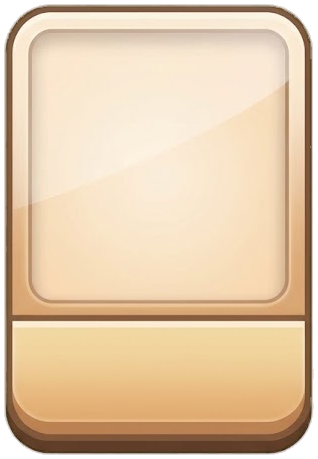
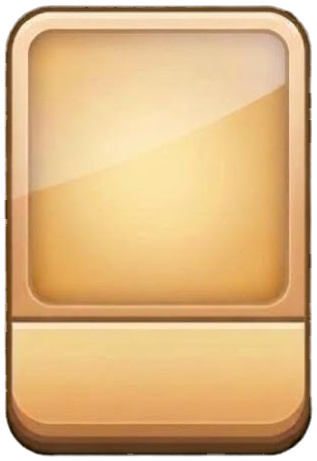
Replace card backgrounds with the new basic and jackpot designs
- New source image: left card (heavenly light in the window) is the
  jackpot card, right card (golden window) is the basic card
- Both are now cut straight from the source; the code-generated light
  rays on the old jackpot card are gone
- Clean the green tint off the soft outer rim of the cards and put both
  on the same canvas size

Claude-Session: https://claude.ai/code/session_01EhkagQdMKRPvrdP32sj85t

diff --git a/scripts/extract_cards.py b/scripts/extract_cards.py
@@ -1,14 +1,11 @@
-"""Build the pick-a-card backgrounds as transparent PNGs.
+"""Cut the pick-a-card backgrounds out of their green-screen sheet as transparent PNGs.
 
 Source (in cards/source/):
-  - cards_greenscreen.jpg : two cards on a green screen. Only the LEFT one (basic) is used.
+  - cards_greenscreen.jpg : two cards on a green screen
+      left  = jackpot (rare) card, with heavenly light inside its window
+      right = basic (regular) card
 
-Output:
-  - cards/basic.png   : the basic card, cut out of the green screen
-  - cards/jackpot.png : the same card with a warm glow and light rays drawn inside its window
-
-The jackpot card is made from the basic one so both frames are pixel-identical and the
-light can never leak past the card edge.
+Output: cards/jackpot.png and cards/basic.png (RGBA, same canvas size)
 
 Requires: numpy, Pillow
 Run from the repo root:  python3 scripts/extract_cards.py
@@ -17,100 +14,64 @@ Run from the repo root:  python3 scripts/extract_cards.py
 from pathlib import Path
 
 import numpy as np
-from PIL import Image, ImageFilter
+from PIL import Image
 
-from extract_brawlers import crop_to_alpha, dilate, flood, key_green, label
+from extract_brawlers import crop_to_alpha, dilate, key_green, label
 
 ROOT = Path(__file__).resolve().parent.parent
 SRC = ROOT / "cards" / "source" / "cards_greenscreen.jpg"
 OUT = ROOT / "cards"
 
-RAYS = 12                                   # number of light rays
-RAY_LIGHT = np.array([255, 250, 226.0])     # colour of the rays
-GLOW_LIGHT = np.array([255, 254, 244.0])    # colour of the centre glow
-GOLD_TINT = np.array([1.00, 0.93, 0.76])    # warms the window between the rays
+# Names for the cards on the sheet, left to right.
+SHEET_NAMES = ["jackpot", "basic"]
 
 
-def smoothstep(lo: float, hi: float, x: np.ndarray) -> np.ndarray:
-    t = np.clip((x - lo) / (hi - lo), 0.0, 1.0)
-    return t * t * (3 - 2 * t)
+def clean_rim(rgba: np.ndarray, width: int = 8) -> np.ndarray:
+    """Remove the green tint the screen leaves on the soft outer rim of the cards.
+
+    Every colour on the card rim (brown outline, cream frame) has green no higher than
+    the average of red and blue, so anything greener than that near the edge is spill.
+    The faint outermost halo is also trimmed so the outline ends crisply.
+    """
+    out = rgba.astype(np.float32)
+    rim = dilate(rgba[..., 3] == 0, width) & (rgba[..., 3] > 0)
+    r, g, b, a = out[..., 0], out[..., 1], out[..., 2], out[..., 3]
+    g[rim] = np.minimum(g[rim], (r[rim] + b[rim]) / 2)
+    a[rim] = np.clip((a[rim] / 255.0 - 0.25) / 0.5, 0.0, 1.0) * 255.0
+    return np.clip(out + 0.5, 0, 255).astype(np.uint8)
 
 
-def cut_basic_card() -> Image.Image:
-    """Key the sheet and return the left-most card."""
-    rgba = key_green(SRC)
+def cut_cards() -> dict[str, Image.Image]:
+    rgba = clean_rim(key_green(SRC))
     labels, n = label(rgba[..., 3] >= 128)
-    cards = []
+    found = []
     for i in range(1, n + 1):
         ys, xs = np.nonzero(labels == i)
-        if len(xs) > 20000:
-            cards.append((xs.min(), i))
-    if not cards:
-        raise SystemExit("no card found on the sheet")
-    _, left = min(cards)
-    return crop_to_alpha(rgba, dilate(labels == left, 2))
+        if len(xs) > 20000:  # ignore specks
+            found.append((xs.min(), i))
+    if len(found) != len(SHEET_NAMES):
+        raise SystemExit(f"expected {len(SHEET_NAMES)} cards on the sheet, found {len(found)}")
+    found.sort()
+    return {name: crop_to_alpha(rgba, dilate(labels == i, 2)) for name, (_, i) in zip(SHEET_NAMES, found)}
 
 
-def window_mask(card: np.ndarray) -> np.ndarray:
-    """Soft mask (0..1) of the sunken window in the top part of the card.
-
-    The window is enclosed by a thin line that is darker than whatever surrounds it
-    (even where the glossy shine crosses it), so treat "darker than the local average"
-    as a wall and flood-fill from the middle of the top area.
-    """
-    h, w = card.shape[:2]
-    lum = card[..., :3].astype(np.float32).sum(axis=2) / 3
-    local = np.asarray(Image.fromarray(lum.astype(np.uint8)).filter(ImageFilter.GaussianBlur(6)))
-    wall = (lum < local.astype(np.float32) * 0.93) | (card[..., 3] < 255)
-    seed = np.zeros((h, w), dtype=bool)
-    seed[int(h * 0.38), w // 2] = True
-    inside = flood(~dilate(wall, 1), seed)
-    if not 0.30 < inside.mean() < 0.50:
-        raise SystemExit(f"window detection failed (covers {inside.mean():.0%} of the card)")
-    # Undo the 1px the thickened wall took, then soften the edge.
-    inside = dilate(inside, 1)
-    soft = Image.fromarray((inside * 255).astype(np.uint8)).filter(ImageFilter.GaussianBlur(0.8))
-    return np.asarray(soft).astype(np.float32) / 255.0
-
-
-def add_light(card: np.ndarray) -> np.ndarray:
-    """Draw a warm glow with light rays inside the card window."""
-    mask = window_mask(card)
-    ys, xs = np.nonzero(mask > 0.5)
-    cy, cx = (ys.min() + ys.max()) / 2, (xs.min() + xs.max()) / 2
-    radius = max(ys.max() - ys.min(), xs.max() - xs.min()) / 2
-
-    yy, xx = np.mgrid[: card.shape[0], : card.shape[1]].astype(np.float32)
-    r = np.hypot(xx - cx, yy - cy) / radius          # 0 at the centre, ~1 at the window edge
-    theta = np.arctan2(yy - cy, xx - cx)
-
-    # Soft rays: a smooth wave around the centre, slightly rotated so no ray is perfectly
-    # horizontal, with a slower second wave so the rays differ a little in strength.
-    wedge = np.cos(RAYS * theta + 0.6) + 0.35 * np.cos(RAYS / 2 * theta + 1.3)
-    rays = smoothstep(-0.6, 0.9, wedge)
-    rays *= np.clip(1.0 - 0.45 * r, 0.0, 1.0)        # fade toward the edges
-    glow = np.exp(-(r / 0.55) ** 2)                  # wide bright centre
-
-    base = card[..., :3].astype(np.float32)
-    lit = base * GOLD_TINT
-    lit = lit + (RAY_LIGHT - lit) * rays[..., None] * 0.85
-    lit = lit + (GLOW_LIGHT - lit) * glow[..., None]
-
-    out = card.copy()
-    m = mask[..., None]
-    out[..., :3] = np.clip(base * (1 - m) + lit * m + 0.5, 0, 255).astype(np.uint8)
+def same_canvas(cards: dict[str, Image.Image]) -> dict[str, Image.Image]:
+    """Centre every card on a canvas of the same size, so they are interchangeable in-game."""
+    w = max(c.width for c in cards.values())
+    h = max(c.height for c in cards.values())
+    out = {}
+    for name, card in cards.items():
+        canvas = Image.new("RGBA", (w, h), (0, 0, 0, 0))
+        canvas.paste(card, ((w - card.width) // 2, (h - card.height) // 2))
+        out[name] = canvas
     return out
 
 
 def main() -> None:
     OUT.mkdir(exist_ok=True)
-    basic = cut_basic_card()
-    basic.save(OUT / "basic.png", optimize=True)
-    print(f"basic    {basic.size}")
-
-    jackpot = Image.fromarray(add_light(np.asarray(basic)), "RGBA")
-    jackpot.save(OUT / "jackpot.png", optimize=True)
-    print(f"jackpot  {jackpot.size}")
+    for name, card in same_canvas(cut_cards()).items():
+        card.save(OUT / f"{name}.png", optimize=True)
+        print(f"{name:8s} {card.size}")
 
 
 if __name__ == "__main__":

diff --git a/cards/README.md b/cards/README.md
@@ -1,25 +1,23 @@
 # Cards
 
-Backgrounds for the "choose a card" screen. Transparent PNGs, 318 × 459 px (4px padding included).
+Backgrounds for the "choose a card" screen. Transparent PNGs, both 317 × 461 px (4px padding included).
 
 | Preview | Name | File |
 |:---:|---|---|
-| <img src="basic.png" height="140"> | Basic | `basic.png` |
-| <img src="jackpot.png" height="140"> | Jackpot | `jackpot.png` |
+| <img src="basic.png" height="140"> | Basic (regular) | `basic.png` |
+| <img src="jackpot.png" height="140"> | Jackpot (rare) | `jackpot.png` |
 
-Both cards share exactly the same frame. The jackpot card is the basic card with a warm
-glow and light rays drawn inside its window.
+Both cards share the same frame. The jackpot card has heavenly light falling into its window.
 
 ## Layout
 
-- **Window** (top): about 251 × 265 px, for the brawler
+- **Window** (top): about 250 × 265 px, for the brawler
 - **Label panel** (bottom): for a short text such as `+2 TNT`
 
 ## Source
 
-The original image is in [`source/`](source/): `cards_greenscreen.jpg`, two cards on a green
-screen. Only the left card is used. The right one had light leaking past its edge, so the
-jackpot card is generated from the basic one.
+The original image is in [`source/`](source/): `cards_greenscreen.jpg`, both cards on a green
+screen (left = jackpot, right = basic).
 
 To regenerate both cards (needs `numpy` and `Pillow`), run this from the repo root:
 

diff --git a/README.md b/README.md
@@ -9,4 +9,4 @@ it moves into the main project repo.
 - [`cards/`](cards/): backgrounds for the "choose a card" screen (basic and jackpot), with the original in `cards/source/`
 - [`scripts/`](scripts/): helper scripts
   - `extract_brawlers.py` cuts the brawler sprites out of their source images
-  - `extract_cards.py` cuts out the basic card and builds the jackpot card from it
+  - `extract_cards.py` cuts the basic and jackpot cards out of their source image
